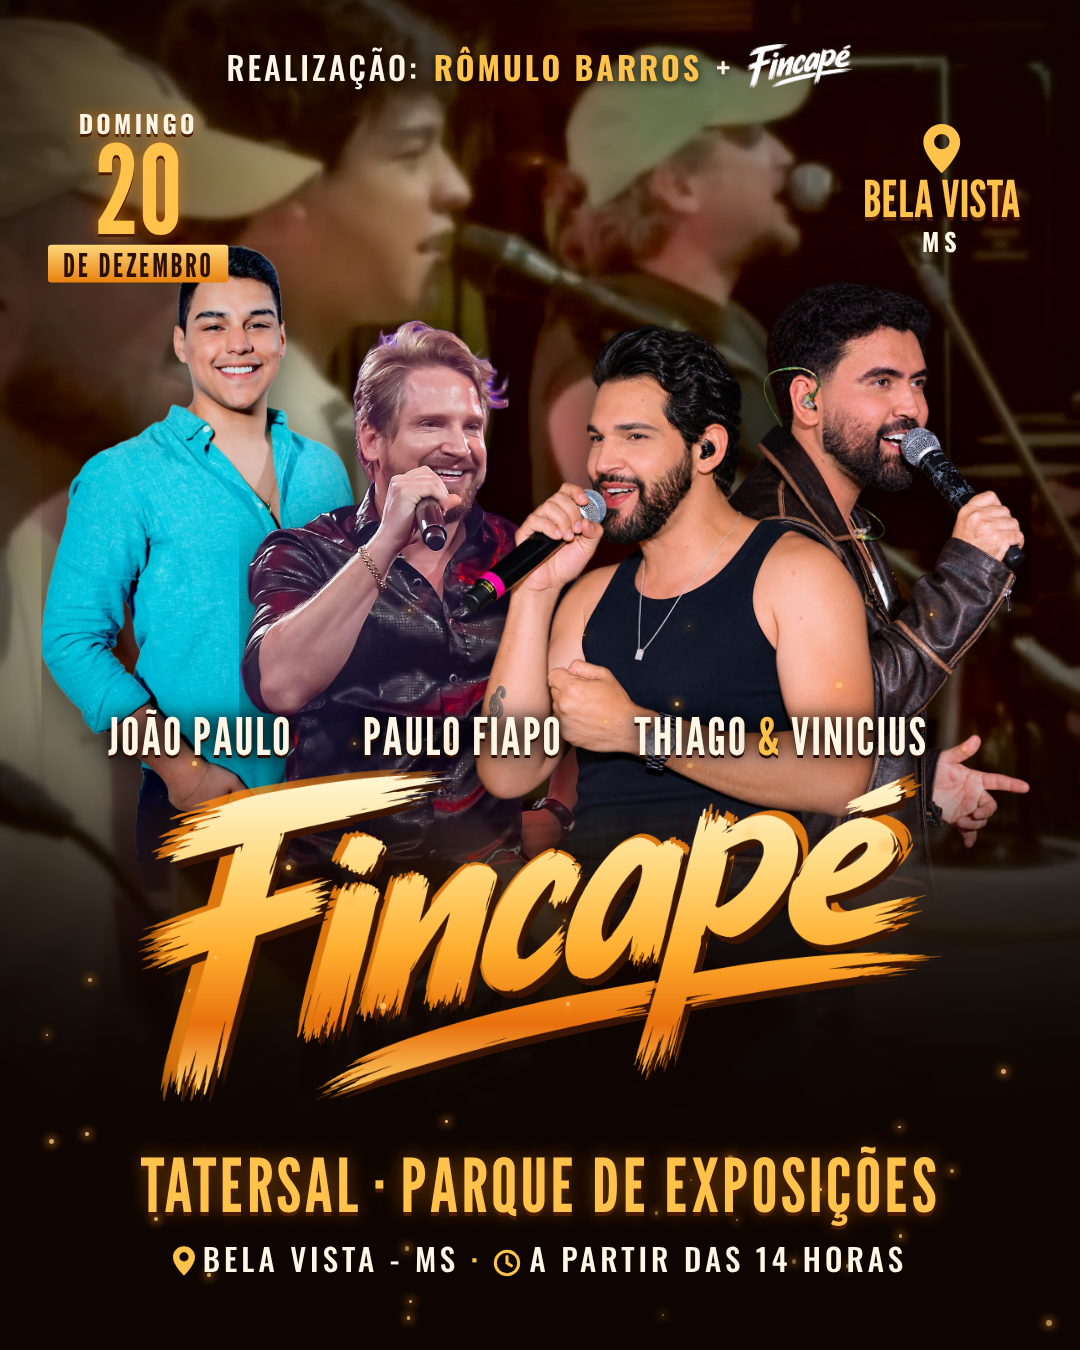
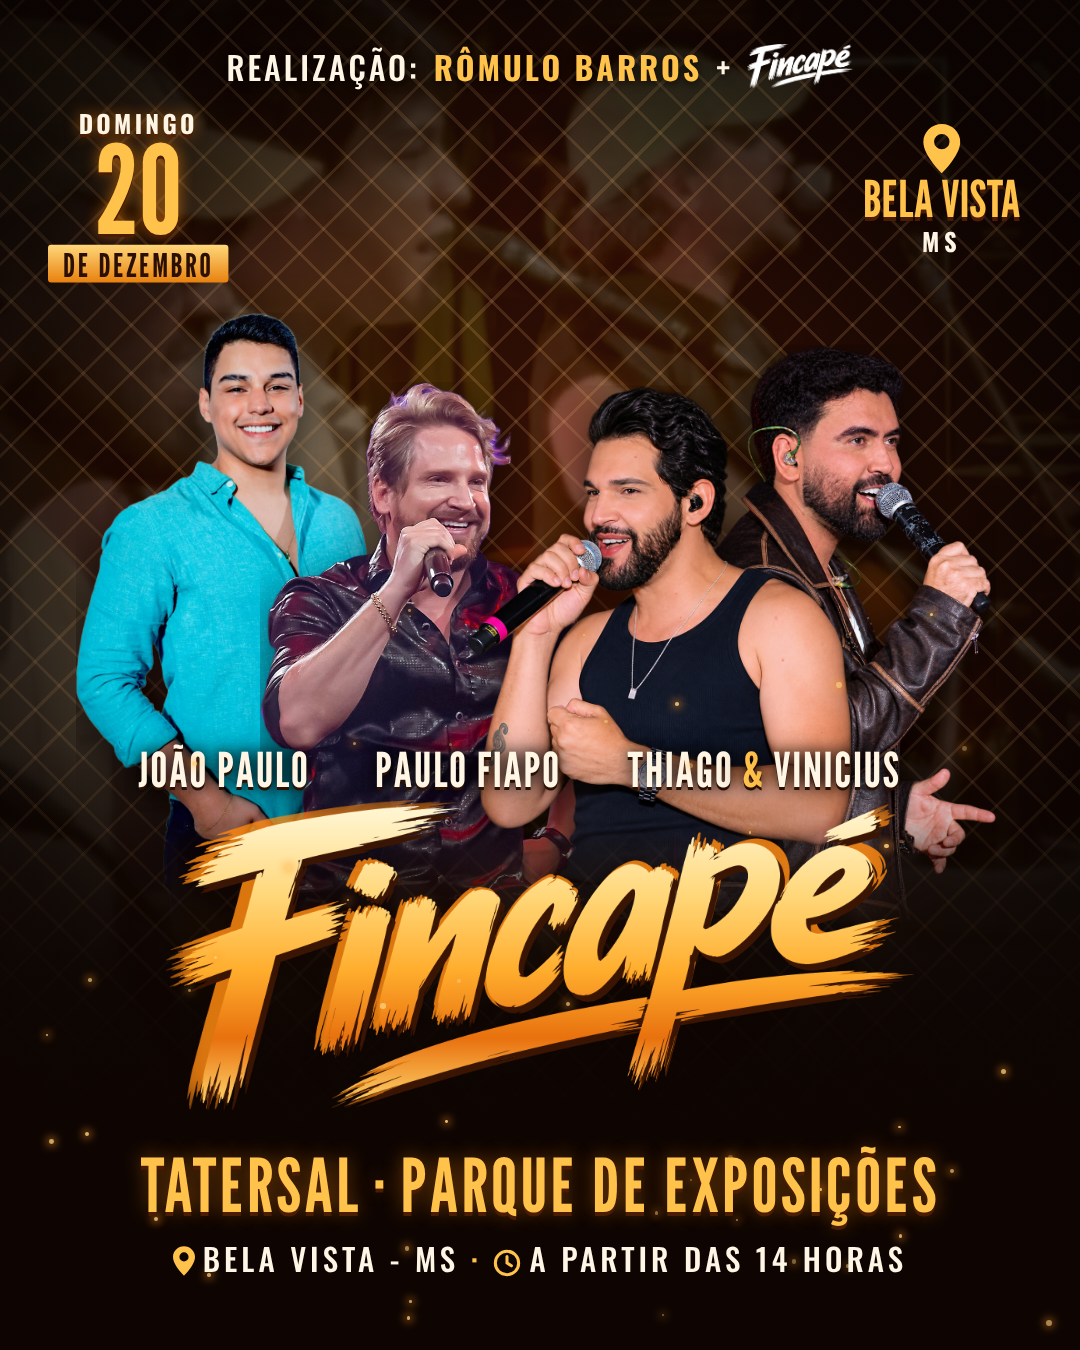
Flyers Fincapé: fundo de alambrado e data do feed sem encostar nas fotos
Claude-Session: https://claude.ai/code/session_011ekbKkesG7Dj1t6fMrmbxk

diff --git a/trabalho/flyer/flyer.html b/trabalho/flyer/flyer.html
@@ -16,12 +16,17 @@
 
   #fundo { position: absolute; left: 0; top: 0; width: 1080px; height: 1920px; object-fit: cover; filter: brightness(.95); }
   body.feed #fundo { top: -330px; }
+  #alambrado { position: absolute; inset: 0;
+    background:
+      repeating-linear-gradient(45deg, rgba(255,190,120,.16) 0 3px, transparent 3px 34px),
+      repeating-linear-gradient(-45deg, rgba(255,190,120,.16) 0 3px, transparent 3px 34px),
+      radial-gradient(60% 45% at 50% 40%, rgba(120,52,14,.35), rgba(10,4,2,.85)); }
   #vinheta { position: absolute; inset: 0; background: radial-gradient(75% 60% at 50% 40%, transparent 40%, rgba(8,3,1,.85) 100%); }
   #sombra-base { position: absolute; inset: 0; background: linear-gradient(to top, rgba(10,4,2,.97) 0, rgba(10,4,2,.75) 22%, transparent 45%); }
 
   /* Grupo central: fotos, nomes e logo (mesma composição do reel) */
   #grupo { position: absolute; left: 0; top: 0; width: 1080px; height: 1920px; transform-origin: 540px 560px; }
-  body.feed #grupo { transform: translateY(-318px) scale(.86); z-index: 5; }
+  body.feed #grupo { transform: translateY(-250px) scale(.8); z-index: 5; }
   .artista { position: absolute; bottom: 590px;
     -webkit-mask-image: linear-gradient(to bottom, #000 82%, transparent 100%); mask-image: linear-gradient(to bottom, #000 82%, transparent 100%); }
   .artista img { display: block; width: 100%; height: auto; filter: drop-shadow(0 18px 30px rgba(0,0,0,.65)); }
@@ -76,6 +81,7 @@
 <body>
 <div id="arte">
   <img id="fundo" src="assets/fundo.jpg" alt="" />
+  <div id="alambrado"></div>
   <div id="vinheta"></div>
 
   <div id="grupo">
